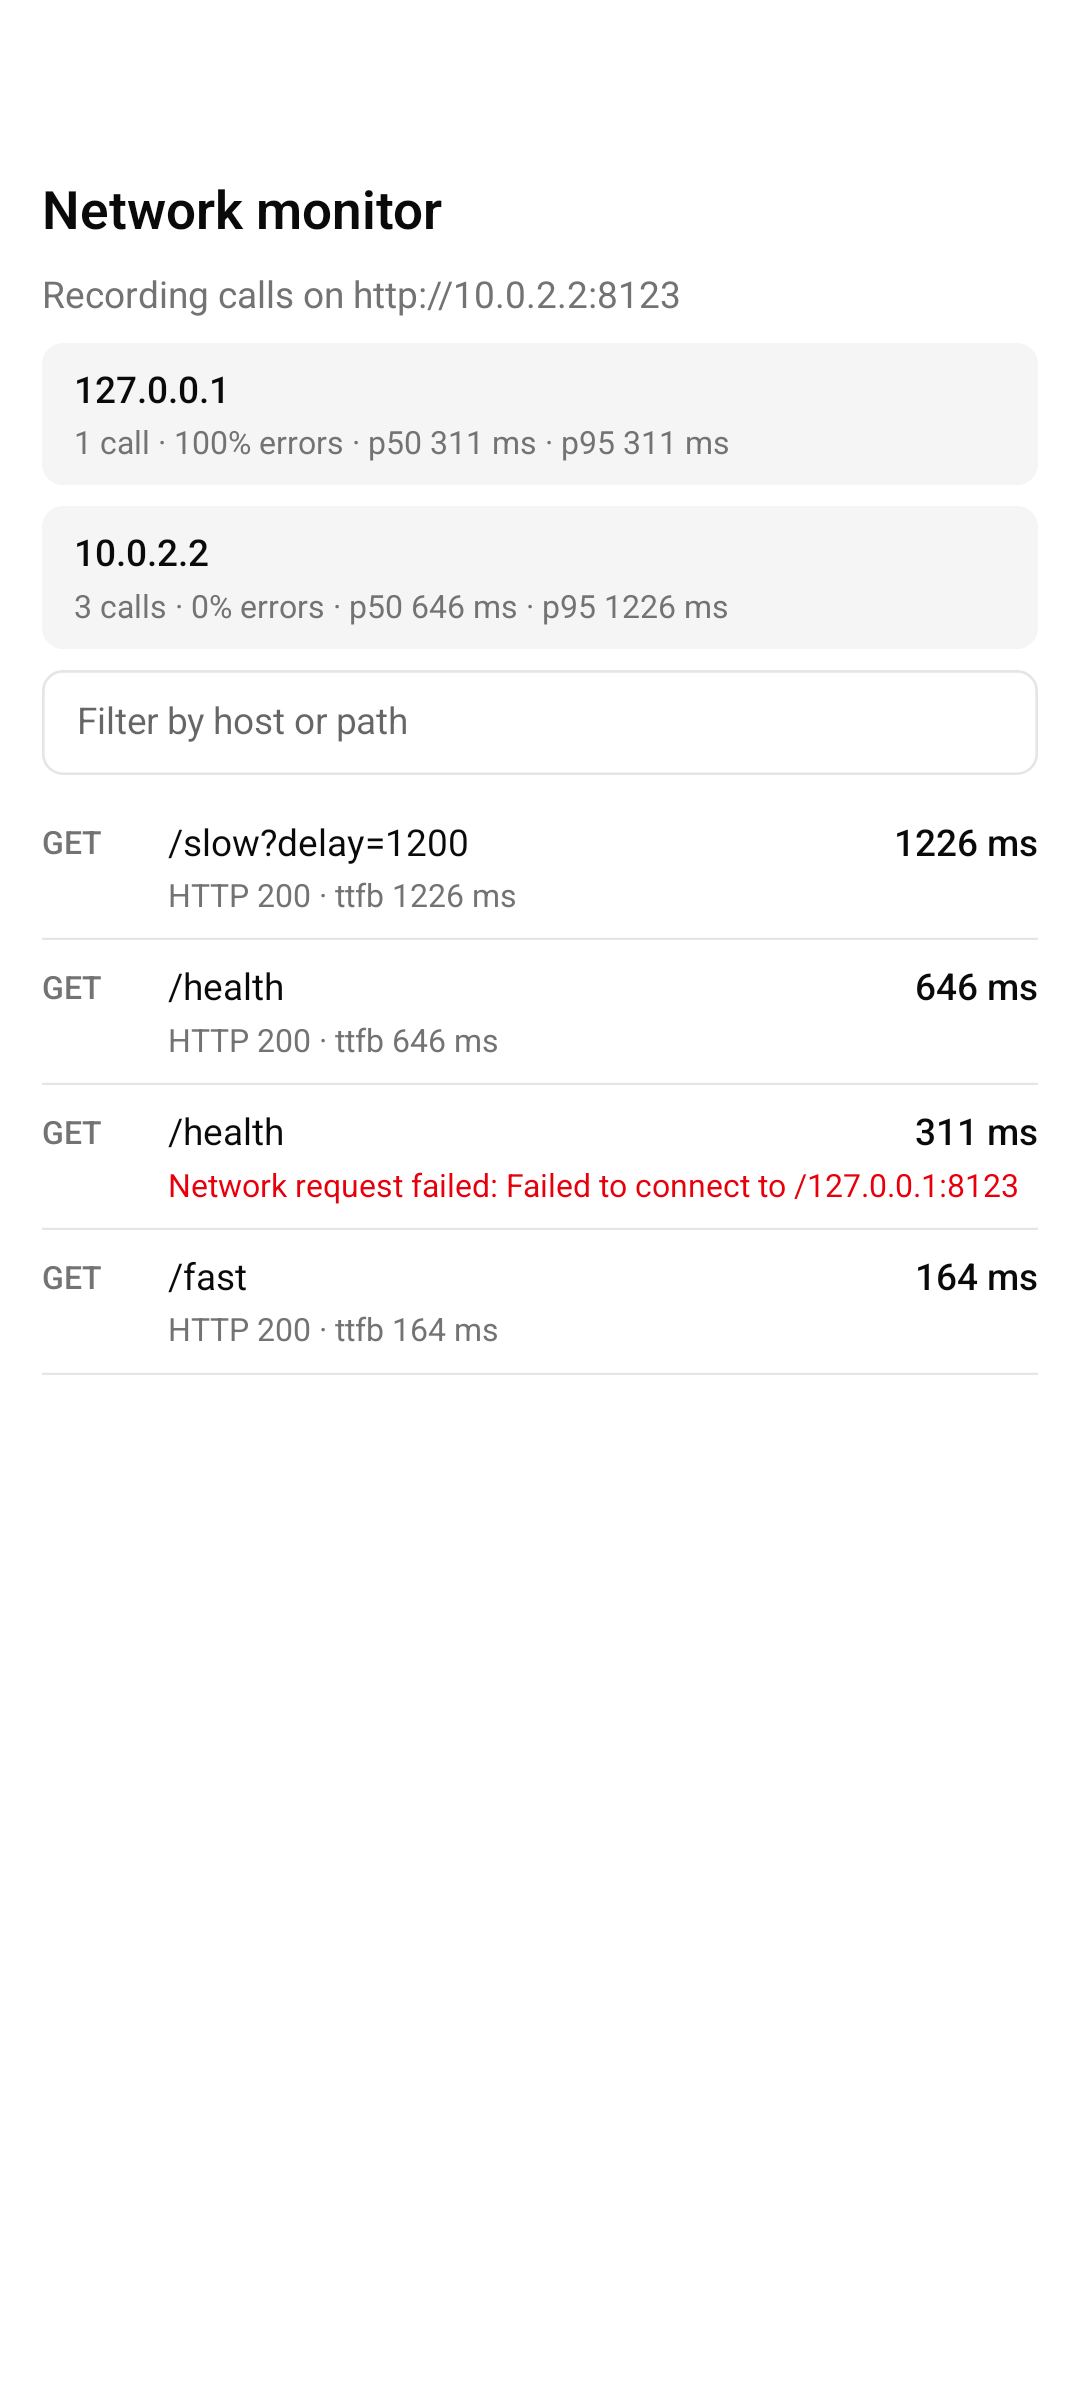
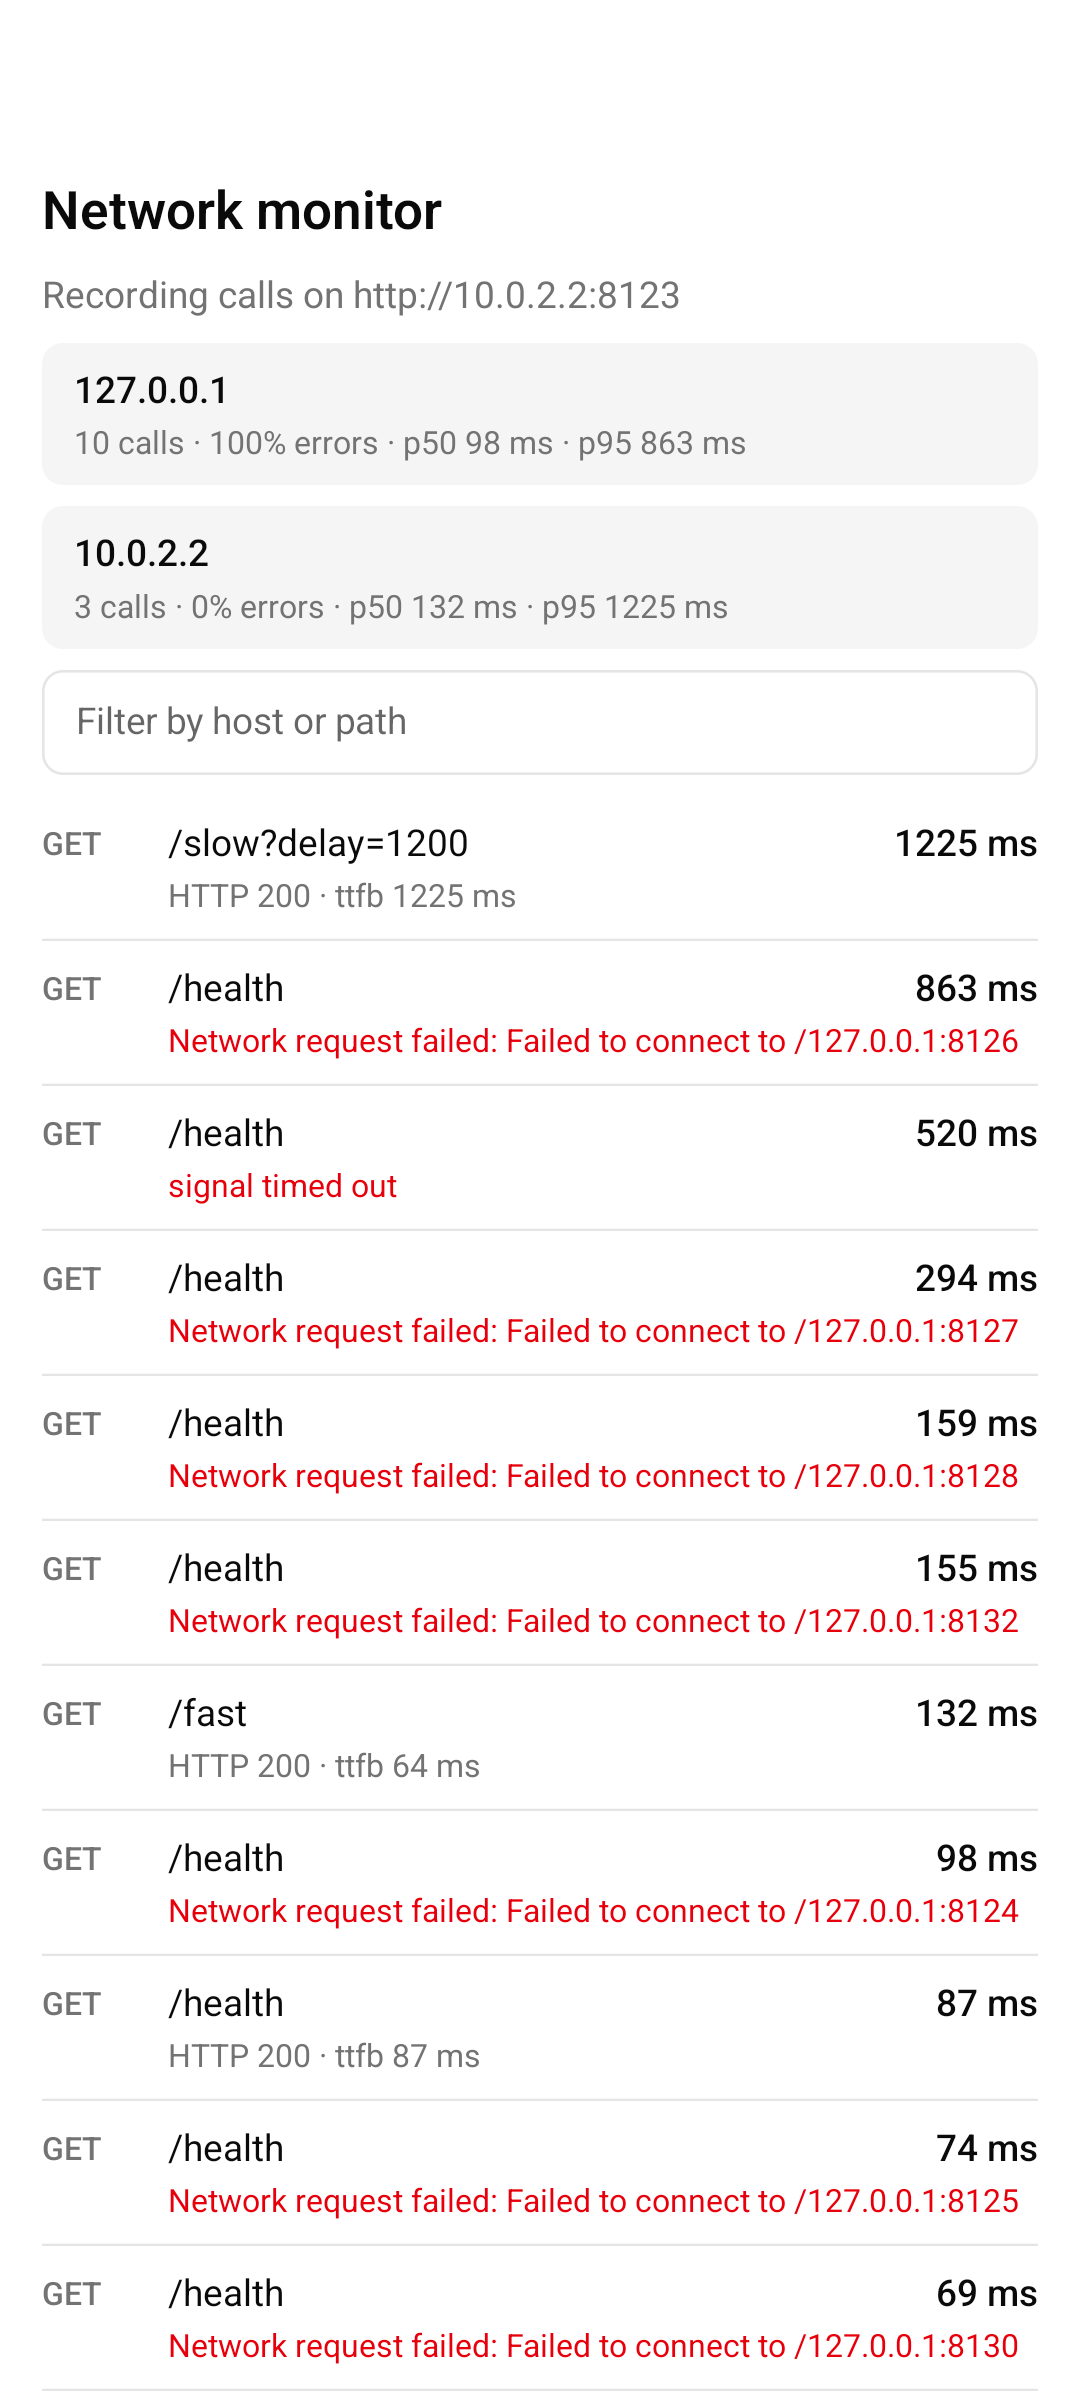
test: verify the 0.6.0 leftovers on native targets
Re-takes the iOS and Android monitor captures on 0.6.0 (own simulator
and AVD), proves the Rust capability refusal for an undeclared host and
a redirect hop under nsh test --target macos (each leg seen red with the
host declared), and re-measures Rust fetch on 0.6.0: the body still
arrives whole, so ttfbMs stays null and the 0.4.0 notes now say 0.6.0.

diff --git a/crates/nsh-http/tests/capability-app/App.test.tsx b/crates/nsh-http/tests/capability-app/App.test.tsx
@@ -2,16 +2,10 @@
 // .runtime.json) through the rust-root capability-app on a real target
 // (`nsh test --target macos crates/nsh-http/tests/capability-app`).
 //
-// What it can and cannot prove: the app's nsh.json declares ONLY
-// `127.0.0.1`, so a working engine would refuse D2 (undeclared host) and D3
-// (redirect hop to refused.invalid) with ERR_ACCESS_DENIED. On 0.4.0 the
-// native host never attaches a rust root's capabilities
-// (`nsh-platform-macos/src/native.rs:270`, `App::Rust(_) =>
-// Policy::default().access()`), so the run below documents what actually
-// happens rather than asserting a refusal that would be a false pass. The
-// assertions hold for BOTH outcomes and the lines themselves are the
-// evidence; if a future nsh enforces on this path, the lines flip to REFUSED
-// and this comment should be updated.
+// The app's nsh.json declares ONLY `127.0.0.1`, so the native host must
+// refuse D2 (undeclared host) and D3 (redirect hop to refused.invalid)
+// through the client as RefusedByCapability. Not provable on 0.4.0, where a
+// rust root was never restricted (docs/upstream-issues.md, issue 1).
 import { expect, open, test } from "nsh/test";
 
 test("capability refusal on a real macos target (rust root)", async () => {
@@ -22,7 +16,7 @@ test("capability refusal on a real macos target (rust root)", async () => {
 
   // D1: the declared host works through the client — the pipeline is live.
   expect(texts.some((t) => t.startsWith("D1 declared:") && t.includes("route=fast"))).toBe(true);
-  // D2/D3: the outcomes are recorded, whichever way the host rules.
-  expect(texts.some((t) => t.startsWith("D2 undeclared-host:"))).toBe(true);
-  expect(texts.some((t) => t.startsWith("D3 redirect-hop:"))).toBe(true);
+  // D2/D3: the engine's grant check, classified by the client.
+  expect(texts.some((t) => t.startsWith("D2 undeclared-host: REFUSED") && t.includes("localhost"))).toBe(true);
+  expect(texts.some((t) => t.startsWith("D3 redirect-hop: REFUSED") && t.includes("refused.invalid"))).toBe(true);
 }, 60000);

diff --git a/crates/nsh-http/tests/capability-app/src/lib.rs b/crates/nsh-http/tests/capability-app/src/lib.rs
@@ -1,6 +1,5 @@
-//! The capability-refusal probe: what the 0.4.0 engine actually does with a
-//! rust root whose nsh.json declares only `127.0.0.1`. Three outcomes land in
-//! `lines`; the TSX test reads them. Port comes from ECHO_PORT, else the echo
+//! The capability-refusal probe: a rust root whose nsh.json declares only
+//! `127.0.0.1`. Three outcomes land in `lines`; the TSX test reads them. Port comes from ECHO_PORT, else the echo
 //! server's `.runtime.json`.
 
 use nsh_base::theme;
@@ -55,10 +54,13 @@ async fn run_suite(lines: Signal<Vec<String>>) {
         Err(error) => note(&lines, format!("D1 declared: Err {error}")).await,
     }
 
-    // D2: an undeclared host (localhost is not in the declaration). Where the
-    // host enforces grants, this is refused (ERR_ACCESS_DENIED).
+    // D2: an undeclared host (localhost is not in the declaration), through
+    // the client, which must classify the engine's refusal.
     let undeclared = format!("http://localhost:{port}/health");
-    match fetch(HttpRequest::get(undeclared.clone())).await {
+    match client
+        .execute("GET", &undeclared, &CallOptions::new())
+        .await
+    {
         Ok(response) => {
             note(
                 &lines,
@@ -69,12 +71,15 @@ async fn run_suite(lines: Signal<Vec<String>>) {
             )
             .await
         }
-        Err(message) => note(&lines, format!("D2 undeclared-host: Err {message}")).await,
+        Err(nsh_http::Error::RefusedByCapability { message }) => {
+            note(&lines, format!("D2 undeclared-host: REFUSED {message}")).await
+        }
+        Err(other) => note(&lines, format!("D2 undeclared-host: Err {other}")).await,
     }
 
     // D3: the redirect hop — /redirect/refused answers 302 to
-    // http://refused.invalid/next, a host no test app declares. The engine
-    // re-checks every hop where it enforces grants.
+    // http://refused.invalid/next, a host the app does not declare; the
+    // engine re-checks every hop.
     match client
         .execute("GET", "/redirect/refused", &CallOptions::new())
         .await

diff --git a/crates/nsh-http/src/client.rs b/crates/nsh-http/src/client.rs
@@ -22,7 +22,7 @@ use crate::monitor::{NetworkEvent, Observer};
 use crate::retry::{RetryPolicy, parse_retry_after};
 
 /// The HTTP call behind every client request: NSH's own `fetch` by default
-/// (docs/decision.md), or a [`crate::MockTransport`] in tests. The 0.4.0
+/// (docs/decision.md), or a [`crate::MockTransport`] in tests. The 0.6.0
 /// transport resolves once, with the whole response.
 pub trait Transport: Send + Sync + 'static {
     /// Sends the request; `Err` carries the engine's or the mock's failure
@@ -615,11 +615,11 @@ impl<F: Future + Unpin> Future for Timed<F> {
 }
 
 /// The error a streamed request body gets (docs/decision.md, experiment 2:
-/// on 0.4.0 the Rust transport resolves once, with the whole response, and
+/// on 0.6.0 the Rust transport resolves once, with the whole response, and
 /// only the JS host drives a streamed send).
 fn stream_unsupported() -> Error {
     Error::Network {
-        message: "the Rust transport cannot stream a request body on 0.4.0 (docs/decision.md, experiment 2): send bytes instead".to_owned(),
+        message: "the Rust transport cannot stream a request body on 0.6.0 (docs/decision.md, experiment 2): send bytes instead".to_owned(),
     }
 }
 
@@ -785,7 +785,7 @@ fn network_event(
     }
 }
 
-/// What the client would put on the wire (the 0.4.0 Rust path never streams).
+/// What the client would put on the wire (the 0.6.0 Rust path never streams).
 fn request_bytes_of(request: &HttpRequest) -> usize {
     match &request.body {
         HttpBody::Empty | HttpBody::Stream => 0,

diff --git a/crates/nsh-http/src/sse.rs b/crates/nsh-http/src/sse.rs
@@ -1,6 +1,6 @@
 //! Server-sent events with reconnect and `Last-Event-ID` (behavior row 14).
 //!
-//! Honest limits on 0.4.0 (docs/decision.md, experiment 2): the Rust transport
+//! Honest limits on 0.6.0 (docs/decision.md, experiment 2): the Rust transport
 //! resolves a request once, when the whole body has arrived — so events are
 //! parsed when the server closes the stream, not one by one as they are sent.
 //! Reconnect (with backoff) and the `Last-Event-ID` header still work exactly
@@ -343,7 +343,7 @@ impl SseBackoff {
 /// reconnect-with-`Last-Event-ID` loop as one future.
 ///
 /// Build the client for it with `.without_timeout()` — a deadline races the
-/// whole request on 0.4.0 (there is no headers-only phase to time out), so a
+/// whole request on 0.6.0 (there is no headers-only phase to time out), so a
 /// client timeout would cut off a quiet stream — and with
 /// `RetryPolicy::off()`: reconnecting is this type's job, and the client's
 /// retries would run beside it.

diff --git a/crates/nsh-http/src/multipart.rs b/crates/nsh-http/src/multipart.rs
@@ -5,11 +5,11 @@
 //! `name`/`filename` values, and a closing `--boundary--`. The generated
 //! boundary is checked against every part's content — RFC 2046 forbids a
 //! boundary that occurs inside it — so what [`MultipartForm::encode`] gives
-//! back parses the way it went in. On 0.4.0 the body travels as one byte
+//! back parses the way it went in. On 0.6.0 the body travels as one byte
 //! buffer through the client pipeline (`HttpBody::Stream` is refused there;
 //! see `docs/decision.md`, experiment 2).
 //!
-//! Note for 0.4.0: the client's `send_request` seam has to carry the
+//! Note for 0.6.0: the client's `send_request` seam has to carry the
 //! multipart `Content-Type` through to the wire; `MultipartForm::send` is
 //! written against that seam, so it works wherever custom headers on a
 //! `send_request` request are honored.

diff --git a/crates/nsh-http/src/streaming.rs b/crates/nsh-http/src/streaming.rs
@@ -1,5 +1,5 @@
 //! Response and request bodies and progress, as honestly as the Rust side of
-//! nsh 0.4.0 allows (docs/decision.md, experiment 2).
+//! nsh 0.6.0 allows (docs/decision.md, experiment 2).
 //!
 //! The limits, stated plainly:
 //!
@@ -19,7 +19,7 @@
 //!   completion with the full byte count — which is exact, because the client
 //!   built the body (`docs/decision.md`: `requestBytes` is known wherever the
 //!   client builds the body). A streamed request body (`HttpBody::Stream`) is
-//!   refused loudly by the client on 0.4.0; send bytes instead.
+//!   refused loudly by the client on 0.6.0; send bytes instead.
 //!
 //! None of this weakens the taxonomy: downloads and uploads go through the
 //! client pipeline (middleware, observer, retries, timeout), so their

diff --git a/crates/nsh-http/tests/live_streams.rs b/crates/nsh-http/tests/live_streams.rs
@@ -4,7 +4,7 @@
 //! the reconnect's `Last-Event-ID` replay, a real `/multipart` parse, and a
 //! real `Content-Length` on `/bytes/:n`. They carry `#[ignore]` (run with
 //! `cargo test -- --ignored` while the server is up) and fail loudly when the
-//! port file is missing. The honest 0.4.0 limit under test: the Rust transport
+//! port file is missing. The honest 0.6.0 limit under test: the Rust transport
 //! resolves a request only at end of body (docs/decision.md, experiment 2),
 //! so a dripped stream arrives whole and progress reports exactly once.
 

diff --git a/crates/nsh-http/tests/sse.rs b/crates/nsh-http/tests/sse.rs
@@ -1,6 +1,6 @@
 //! Behavior row 14: SSE connect, reconnect with backoff and `Last-Event-ID`,
 //! and clean cancellation, on stubs and the manual clock. The stub cannot
-//! stream a body in pieces (`StubNetwork` answers whole), which on 0.4.0 is
+//! stream a body in pieces (`StubNetwork` answers whole), which on 0.6.0 is
 //! exactly what the production Rust transport does too (`docs/decision.md`,
 //! experiment 2): the parse-then-reconnect machinery here runs against the
 //! same shape the wire gives it. The wire-level proof — a real server

diff --git a/crates/nsh-http/src/retry.rs b/crates/nsh-http/src/retry.rs
@@ -93,7 +93,7 @@ impl RetryPolicy {
     /// Whether a `(attempt+1)`th send may happen for `error` after
     /// `attempts_done` failed ones. A body stream already started disqualifies
     /// the send: the server may have consumed part of it. The Rust pipeline
-    /// never streams a request body (the 0.4.0 transport resolves once, with
+    /// never streams a request body (the 0.6.0 transport resolves once, with
     /// the whole response), so it always passes `false`.
     pub fn should_retry(
         &self,

diff --git a/crates/nsh-http/tests/streaming.rs b/crates/nsh-http/tests/streaming.rs
@@ -1,5 +1,5 @@
 //! Behavior row 13, the Rust half: response bodies, download progress, upload
-//! progress — with the honest 0.4.0 limits (docs/decision.md, experiment 2)
+//! progress — with the honest 0.6.0 limits (docs/decision.md, experiment 2)
 //! asserted, not just documented: progress fires exactly once, when the whole
 //! body is in, because that is the only moment the transport observes.
 //!

diff --git a/crates/nsh-http/src/monitor.rs b/crates/nsh-http/src/monitor.rs
@@ -370,7 +370,7 @@ fn host_and_path(url: &str) -> (String, String) {
     )
 }
 
-/// What the request would put on the wire (the 0.4.0 Rust path never streams).
+/// What the request would put on the wire (the 0.6.0 Rust path never streams).
 fn request_bytes_of(request: &HttpRequest) -> u64 {
     match &request.body {
         HttpBody::Empty | HttpBody::Stream => 0,

diff --git a/docs/STATUS.md b/docs/STATUS.md
@@ -50,8 +50,7 @@ Run on `nsh 0.6.0` with the echo server up on 8123. What changed and how it was 
 - **The monitor screen uses `List` again** (brief requirement; `Each` was a 0.4.0 workaround, issue 3). Slow call on
   top asserted in `examples/monitor-app/tests/unit/ready.test.ts`; fails with the sort reversed. Re-captured on macos
   and web: `docs/evidence/monitor/macos-ready.png`, `web-ready.png` (slow 1207-1214 ms above 12-25 ms, looked at).
-  The ios and android captures are the 0.4.0 ones and were NOT re-taken on 0.6.0 (the shared simulators and the
-  emulator belong to other builds; `nsh test --target ios|android` picks its own device).
+  The ios and android captures were re-taken on 0.6.0 afterwards (see "Leftovers closed" below).
 - Docs updated: `README.md` (0.6.0 platform facts), `docs/decision.md` ("Re-measured on 0.6.0"),
   `docs/upstream-issues.md` (issues 1, 2, 3, 5 marked fixed on 0.6.0; 4 stands).
 
@@ -61,6 +60,32 @@ Gates on 0.6.0: `cargo fmt --all -- --check` 0; `cargo clippy --all-targets -- -
 `examples/monitor-app` 4/4; `bun test` in `tools/echo-server` 43/43; `examples/demo-rs` fmt, clippy, test 1/1, live 1/1.
 `nsh test` prints `warn the status bar is not granted` per test for the packages' test hosts; it is a runner
 notice, not an `nsh build` warning.
+
+## Leftovers closed on 0.6.0 (2026-11-19)
+
+- **iOS and Android monitor captures re-taken on 0.6.0**, on own devices (simulator `nsh-http-0.6`, iPhone 17 Pro, iOS 27;
+  AVD `nsh-http-0.6`, Pixel 8, android-37, on a private adb server via `ANDROID_ADB_SERVER_PORT=5038` because
+  `nsh test --target android` takes the first device `adb devices` lists and the shared server held another build's
+  emulator). Command: `nsh test examples/monitor-app/tests/capture/ready.capture.test.ts --target ios --device <udid>`
+  / `--target android`, both pass. `docs/evidence/monitor/ios-ready.png` (looked at: slow `/slow?delay=1200` 1237 ms,
+  ttfb 1232 ms, on top of `/health` 162 ms and `/fast` 24 ms; filter field and host aggregate visible) and
+  `android-ready.png` (looked at: slow 1225 ms on top; `10.0.2.2` aggregate 3 calls 0% errors; the `127.0.0.1` row
+  is the app's cross-target probe failing on the emulator, which cannot reach the host's loopback, as designed).
+- **Criterion 6 on a real native target (macos), Rust root, 0.6.0**: `crates/nsh-http/tests/capability-app` now asserts
+  `REFUSED` for an undeclared host (`localhost`) and for the redirect hop (`refused.invalid`), both through
+  `HttpClient::execute` as `RefusedByCapability`; `nsh test --target macos` passes
+  (`docs/evidence/rust-client/capability-macos-0.6.0-run.txt`). Fails once per leg when the declaration is widened
+  (`capability-macos-0.6.0-red.txt`: declaring `localhost` gives `NOT REFUSED status=200`; declaring `refused.invalid`
+  gives a DNS failure). `capability-macos-run.txt` is the superseded 0.4.0 run (nothing refused). iOS simulator not
+  run for this item; macos is the same engine check. Its D2 leg now goes through the client rather than raw `fetch`.
+- **Rust `fetch` re-measured on 0.6.0**: unchanged, whole body, one resolution, so `ttfbMs` stays `null` from Rust
+  (`docs/evidence/decision/exp2-rust-fetch-0.6.0-run.txt`, headless and macos; numbers in `docs/decision.md`).
+  The code comments and README that said "0.4.0" for this limit now say 0.6.0. The scratch test's first run failed
+  on a wrong lower bound for `/stream` (908 ms, not 1.2 s); the bound was fixed to what the route sends.
+- Env note: on this Mac a cold C build (`onig_sys`) hung under the `kache` rustc/cc wrapper; the runs above used
+  `CARGO_BUILD_RUSTC_WRAPPER= HOST_CC=cc HOST_CXX=c++ CC_KNOWN_WRAPPER_CUSTOM=` and a PATH without the kache shims.
+- Gates: `cargo fmt --all -- --check` 0, `cargo clippy --all-targets -- -D warnings` 0, `cargo test` and
+  `cargo test -- --ignored` all pass (Rust-side comment edits only plus the capability-app).
 
 ## Per-area record
 
@@ -83,8 +108,8 @@ directly with the Agent tool; the script was never weakened.
 
 ## Not verified / honest caveats
 
-- **Criterion 6 on the Rust path** was blocked on 0.4.0 and is proven on 0.6.0 headless (see the re-audit);
-  not re-run on a real native target on 0.6.0.
+- **Criterion 6 on the Rust path** was blocked on 0.4.0; proven on 0.6.0 headless and on a real macos target
+  (see "Leftovers closed"). Not run on the iOS simulator.
 - **demo-ts web capture** (superseded: exists on 0.6.0, see the re-audit); on 0.4.0 it did not exist: upstream issue 5 — the `nsh test --target web`
   page's `nsh` module lacks the `lifecycle` export, so any bundle importing nsh-query
   fails module linking (evidence `docs/evidence/examples/web-missing-lifecycle.png`,
